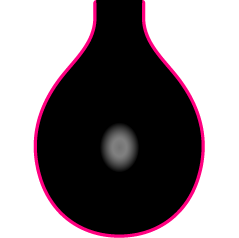
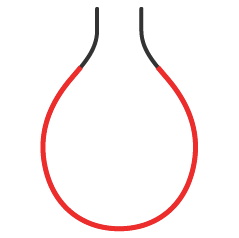
Redesign main menu

diff --git a/opendrop/app/main_menu/component.py b/opendrop/app/main_menu/component.py
@@ -41,7 +41,7 @@ class MainMenuView(View['MainMenuPresenter', Gtk.Widget]):
     OPENDROP_LOGO = GdkPixbuf.Pixbuf.new_from_stream(
         Gio.MemoryInputStream.new_from_bytes(
             GLib.Bytes(
-                pkg_resources.resource_stream('opendrop.res', 'images/logo_tall.png').read()
+                pkg_resources.resource_stream('opendrop.res', 'images/logo_wide.png').read()
             )
         )
     )
@@ -67,69 +67,40 @@ class MainMenuView(View['MainMenuPresenter', Gtk.Widget]):
             title='OpenDrop',
             window_position=Gtk.WindowPosition.CENTER,
             resizable=False,
-            default_width=500,
-            default_height=330,
+            default_width=400,
+            default_height=240,
         )
 
-        body = Gtk.Grid()
+        body = Gtk.Grid(row_spacing=15, column_spacing=40)
         self._window.add(body)
 
+        body.get_style_context().add_class('body')
+        css_provider = Gtk.CssProvider()
+        css_provider.load_from_data(bytes("""
+            .body {
+                background: white;
+            }
+            """, encoding='utf-8'))
+        body.get_style_context().add_provider(css_provider, Gtk.STYLE_PROVIDER_PRIORITY_USER)
+
         logo_image_pixbuf = self.OPENDROP_LOGO.scale_simple(
-            dest_width=140,
-            dest_height=140 / self.OPENDROP_LOGO.props.width * self.OPENDROP_LOGO.props.height,
+            dest_width=240,
+            dest_height=240 / self.OPENDROP_LOGO.props.width * self.OPENDROP_LOGO.props.height,
             interp_type=GdkPixbuf.InterpType.BILINEAR
         )
         logo = Gtk.Image(pixbuf=logo_image_pixbuf, margin=20, hexpand=True)
-        body.attach(logo, 2, 0, 1, 1)
+        body.attach(logo, 0, 0, 2, 1)
 
-        body.attach(Gtk.Separator(orientation=Gtk.Orientation.VERTICAL, visible=True), 1, 0, 1, 1)
+        ift_btn = Gtk.Button(relief=Gtk.ReliefStyle.NONE, width_request=120, hexpand=True, vexpand=True, halign=Gtk.Align.END, valign=Gtk.Align.START)
+        body.attach(ift_btn, 0, 1, 1, 1)
 
-        menu_items = Gtk.Box(
-            vexpand=True,
-            margin=0,
-            spacing=0,
-            halign=Gtk.Align.START,
-            orientation=Gtk.Orientation.VERTICAL,
-        )
-        body.attach(menu_items, 0, 0, 1, 1)
-
-        menu_items.get_style_context().add_class('menu-items')
-        css_provider = Gtk.CssProvider()
-        css_provider.load_from_data(bytes("""
-            .menu-items {
-                background: whitesmoke;
-            }
-            """, encoding='utf-8'))
-
-        menu_items.get_style_context().add_provider(css_provider, Gtk.STYLE_PROVIDER_PRIORITY_USER)
-
-        new_analysis_label = Gtk.Label(halign=Gtk.Align.START, margin_left=9, margin_top=6, margin_bottom=0)
-        new_analysis_label.set_markup('<b>NEW ANALYSIS</b>')
-
-        new_analysis_label.get_style_context().add_class('new-analysis-label')
-        css_provider = Gtk.CssProvider()
-        css_provider.load_from_data(bytes("""
-            .new-analysis-label {
-                font-size: 11pt;
-                color: dimgray;
-            }
-            """, encoding='utf-8'))
-
-        new_analysis_label.get_style_context().add_provider(css_provider, Gtk.STYLE_PROVIDER_PRIORITY_USER)
-
-        menu_items.pack_start(new_analysis_label, expand=False, fill=False, padding=4)
-        menu_items.show_all()
-
-        ift_btn = Gtk.Button(width_request=160, relief=Gtk.ReliefStyle.NONE)
-        menu_items.pack_start(ift_btn, expand=False, fill=False, padding=0)
-
-        ift_btn_inner = Gtk.Grid(hexpand=False, valign=Gtk.Align.CENTER, column_spacing=8, margin_top=4,
+        ift_btn_inner = Gtk.Grid(hexpand=True, halign=Gtk.Align.CENTER, valign=Gtk.Align.CENTER, row_spacing=12, margin_top=4,
                                  margin_bottom=4)
         ift_btn.add(ift_btn_inner)
 
         ift_btn_image_pixbuf = self.IFT_BUTTON_IMAGE.scale_simple(
-            dest_width=24,
-            dest_height=24 / self.IFT_BUTTON_IMAGE.props.width * self.IFT_BUTTON_IMAGE.props.height,
+            dest_width=48,
+            dest_height=48 / self.IFT_BUTTON_IMAGE.props.width * self.IFT_BUTTON_IMAGE.props.height,
             interp_type=GdkPixbuf.InterpType.BILINEAR
         )
 
@@ -138,33 +109,33 @@ class MainMenuView(View['MainMenuPresenter', Gtk.Widget]):
 
         ift_btn_lbl = Gtk.Label(
             label='Interfacial Tension',
-            halign=Gtk.Align.START,
+            halign=Gtk.Align.CENTER,
             valign=Gtk.Align.CENTER,
         )
-        ift_btn_inner.attach(ift_btn_lbl, 1, 0, 1, 1)
+        ift_btn_inner.attach(ift_btn_lbl, 0, 1, 1, 1)
 
-        conan_btn = Gtk.Button(width_request=160, relief=Gtk.ReliefStyle.NONE)
+        conan_btn = Gtk.Button(relief=Gtk.ReliefStyle.NONE, width_request=120, halign=Gtk.Align.START, valign=Gtk.Align.START)
 
-        conan_btn_inner = Gtk.Grid(hexpand=False, valign=Gtk.Align.CENTER, column_spacing=8, margin_top=4,
+        conan_btn_inner = Gtk.Grid(hexpand=True, halign=Gtk.Align.CENTER, valign=Gtk.Align.CENTER, row_spacing=12, margin_top=4,
                                    margin_bottom=4)
         conan_btn.add(conan_btn_inner)
 
         conan_btn_image_pixbuf = self.CONAN_BUTTON_IMAGE.scale_simple(
-            dest_width=24,
-            dest_height=24 / self.CONAN_BUTTON_IMAGE.props.width * self.CONAN_BUTTON_IMAGE.props.height,
+            dest_width=48,
+            dest_height=48 / self.CONAN_BUTTON_IMAGE.props.width * self.CONAN_BUTTON_IMAGE.props.height,
             interp_type=GdkPixbuf.InterpType.BILINEAR
         )
-        menu_items.pack_start(conan_btn, expand=False, fill=False, padding=0)
+        body.attach(conan_btn, 1, 1, 1, 1)
 
         conan_btn_image = Gtk.Image(pixbuf=conan_btn_image_pixbuf)
         conan_btn_inner.attach(conan_btn_image, 0, 0, 1, 1)
 
         conan_btn_lbl = Gtk.Label(
             label='Contact Angle',
-            halign=Gtk.Align.START,
+            halign=Gtk.Align.CENTER,
             valign=Gtk.Align.CENTER,
         )
-        conan_btn_inner.attach(conan_btn_lbl, 1, 0, 1, 1)
+        conan_btn_inner.attach(conan_btn_lbl, 0, 1, 1, 1)
 
         ift_btn.connect('clicked', lambda *_: self.presenter.launch_ift())
         conan_btn.connect('clicked', lambda *_: self.presenter.launch_conan())
